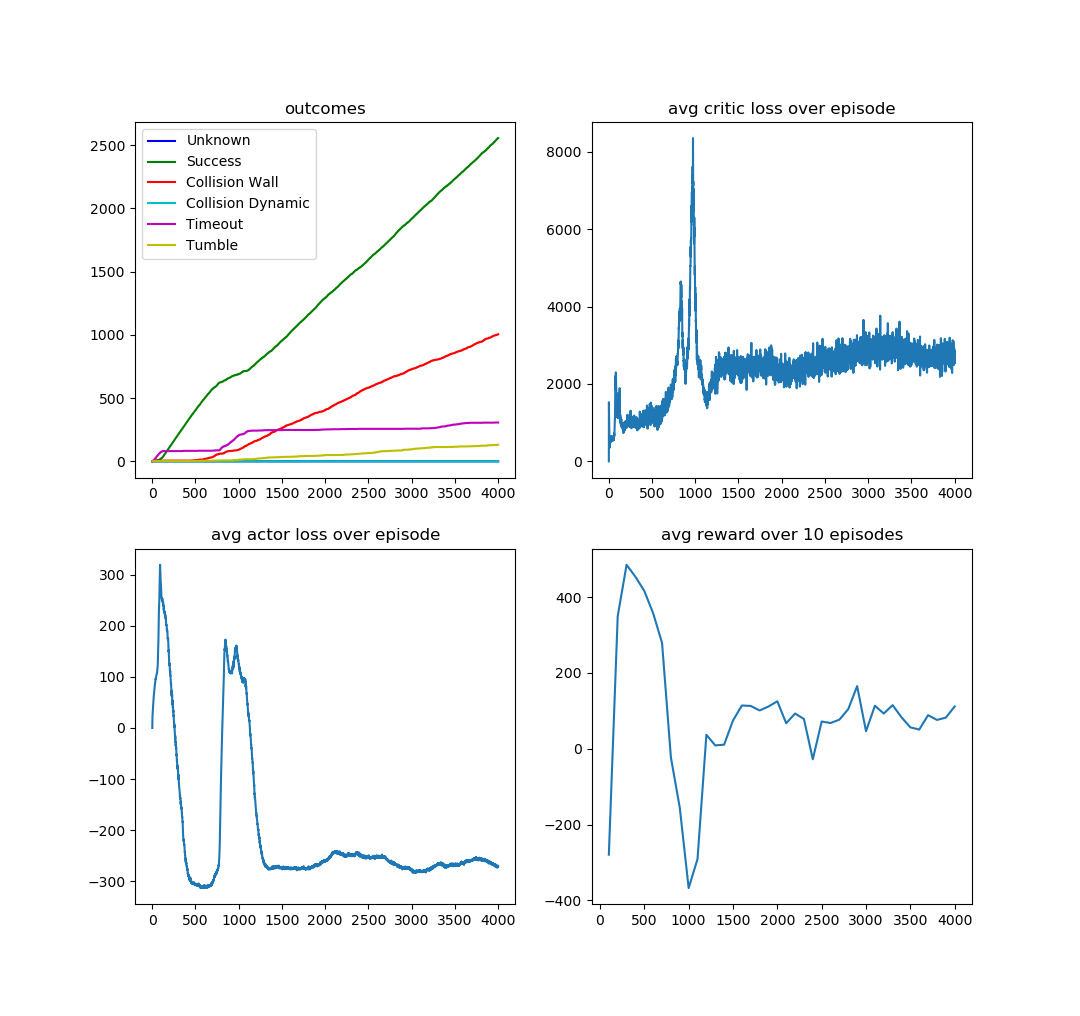
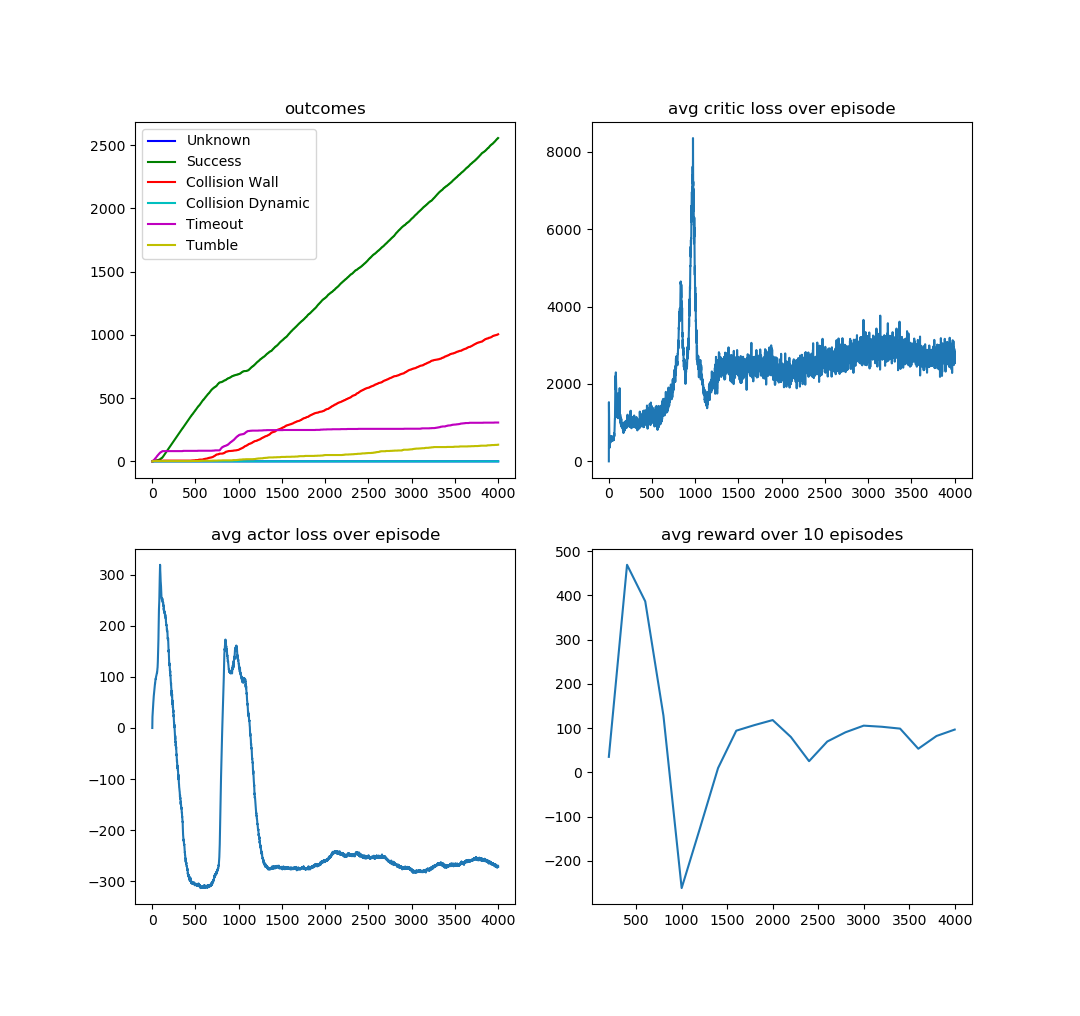
相关测试及绘图脚本

diff --git a/util/analize_reward.py b/util/analize_reward.py
@@ -1,0 +1,90 @@
+import matplotlib.pyplot as plt
+import numpy as np
+import math
+import os
+import glob
+import sys
+import pandas as pd
+import socket
+from datetime import datetime
+import argparse
+
+TOP_EPISODES = 4
+PLOT_INTERVAL = 100
+# Episode outcome enumeration
+UNKNOWN = 0
+SUCCESS = 1
+COLLISION_WALL = 2
+COLLISION_OBSTACLE = 3
+TIMEOUT = 4
+TUMBLE = 5
+RESULTS_NUM = 6
+
+
+def main(args):
+
+    plt.figure(figsize=(10,10))
+    avg_episode_smooth = []
+    avg_smooth = []
+    base_path = os.getenv('DRLNAV_BASE_PATH') + f"/src/{args.agent_name}/model/{args.file_path}/"
+    logfile = glob.glob(base_path + '/*_speed_*.txt')
+    logfile.sort()
+    # logfile = glob.glob(base_path + '/_test_*.txt')
+    # if len(logfile) != 1:
+    #     print(f"ERROR: found less or more than 1 logfile for: {base_path}")
+    for i in range(len(logfile)):
+
+        df = pd.read_csv(logfile[i])
+        robot_pose_x_column = df[' robot_pose_x']
+        robot_pose_y_column = df[' robot_pose_y']
+        goal_pose_x_column = df[' goal_pose_x']
+        goal_pose_y_column = df[' goal_pose_y']
+        # steps_column   = df['step']
+        robot_pose_x = robot_pose_x_column.tolist()
+        robot_pose_y = robot_pose_y_column.tolist()
+        goal_pose_x = goal_pose_x_column.tolist()
+        goal_pose_y = goal_pose_y_column.tolist()
+        # steps = steps_column.tolist()
+
+        length = len(robot_pose_x_column)
+        for j in range(1,length-1):
+            smooth = (math.pow(robot_pose_x[j-1]+robot_pose_x[j+1]-2*robot_pose_x[j],2) + math.pow(robot_pose_y[j-1]+robot_pose_y[j+1]-2*robot_pose_y[j],2))
+            avg_episode_smooth.append(smooth)
+        avg_episode_smooth_value = np.mean(avg_episode_smooth)
+        avg_smooth.append(avg_episode_smooth_value)
+    avg_smooth_l1 = 10000*np.mean(avg_smooth[:40])
+    avg_smooth_l2 = 10000*np.mean(avg_smooth[40:80])
+    avg_smooth_l3 = 10000*np.mean(avg_smooth[80:])
+
+    x=[1,2,3]  
+    y=[avg_smooth_l1,avg_smooth_l2,avg_smooth_l3]  
+    color=['blue','green','yellow','orchid','deepskyblue']
+    x_label=['task_level_1','task_level_2','task_level_3']
+    plt.xticks(x, x_label)
+    plt.bar(x, y,color=color)
+    plt.title("Smooth of trajectory")
+
+    # plt.plot(xaxis, average_rewards, label="avg_rewards")
+    # plt.plot(0.0, 0.0, "o", lw=3, c='black')
+    # plt.plot(robot_pose_x, robot_pose_y, label="trajectory", lw=1, c='black')
+    # plt.plot(goal_pose_x[0], goal_pose_y[0], "o",  label="goal", lw=3, c='red')
+
+    # plt.xlabel('Episode', fontsize=24, fontweight='bold')
+    # plt.ylabel('Avg.Rate', fontsize=24, fontweight='bold')
+    # plt.xticks(fontsize=20)
+    # plt.yticks(fontsize=20)
+    # plt.legend(fontsize=20)
+    # plt.xlim(-6,6)
+    plt.ylim(0,5)
+    plt.grid(True, linestyle='--')
+    plt.savefig(logfile[i][:-4] + "_trajectory_smooth.png", format="png", bbox_inches="tight")
+    # plt.show()
+
+
+if __name__ == '__main__':
+    parser = argparse.ArgumentParser()
+    parser.add_argument("--agent_name",           default="cyberdog_drl", type=str)
+    parser.add_argument("--file_path",            default="dayday-pc/ddpg_888_stage_4", type=str)
+    args = parser.parse_args()
+    print(args)
+    main(args)

diff --git a/util/analize_smooth.py b/util/analize_smooth.py
@@ -1,0 +1,90 @@
+import matplotlib.pyplot as plt
+import numpy as np
+import math
+import os
+import glob
+import sys
+import pandas as pd
+import socket
+from datetime import datetime
+import argparse
+
+TOP_EPISODES = 4
+PLOT_INTERVAL = 100
+# Episode outcome enumeration
+UNKNOWN = 0
+SUCCESS = 1
+COLLISION_WALL = 2
+COLLISION_OBSTACLE = 3
+TIMEOUT = 4
+TUMBLE = 5
+RESULTS_NUM = 6
+
+
+def main(args):
+
+    plt.figure(figsize=(10,10))
+    avg_episode_smooth = []
+    avg_smooth = []
+    base_path = os.getenv('DRLNAV_BASE_PATH') + f"/src/{args.agent_name}/model/{args.file_path}/"
+    logfile = glob.glob(base_path + '/*_speed_*.txt')
+    logfile.sort()
+    # logfile = glob.glob(base_path + '/_test_*.txt')
+    # if len(logfile) != 1:
+    #     print(f"ERROR: found less or more than 1 logfile for: {base_path}")
+    for i in range(len(logfile)):
+
+        df = pd.read_csv(logfile[i])
+        robot_pose_x_column = df[' robot_pose_x']
+        robot_pose_y_column = df[' robot_pose_y']
+        goal_pose_x_column = df[' goal_pose_x']
+        goal_pose_y_column = df[' goal_pose_y']
+        # steps_column   = df['step']
+        robot_pose_x = robot_pose_x_column.tolist()
+        robot_pose_y = robot_pose_y_column.tolist()
+        goal_pose_x = goal_pose_x_column.tolist()
+        goal_pose_y = goal_pose_y_column.tolist()
+        # steps = steps_column.tolist()
+
+        length = len(robot_pose_x_column)
+        for j in range(1,length-1):
+            smooth = (math.pow(robot_pose_x[j-1]+robot_pose_x[j+1]-2*robot_pose_x[j],2) + math.pow(robot_pose_y[j-1]+robot_pose_y[j+1]-2*robot_pose_y[j],2))
+            avg_episode_smooth.append(smooth)
+        avg_episode_smooth_value = np.mean(avg_episode_smooth)
+        avg_smooth.append(avg_episode_smooth_value)
+    avg_smooth_l1 = 10000*np.mean(avg_smooth[:40])
+    avg_smooth_l2 = 10000*np.mean(avg_smooth[40:80])
+    avg_smooth_l3 = 10000*np.mean(avg_smooth[80:])
+
+    x=[1,2,3]  
+    y=[avg_smooth_l1,avg_smooth_l2,avg_smooth_l3]  
+    color=['blue','green','yellow','orchid','deepskyblue']
+    x_label=['task_level_1','task_level_2','task_level_3']
+    plt.xticks(x, x_label)
+    plt.bar(x, y,color=color)
+    plt.title("Smooth of trajectory")
+
+    # plt.plot(xaxis, average_rewards, label="avg_rewards")
+    # plt.plot(0.0, 0.0, "o", lw=3, c='black')
+    # plt.plot(robot_pose_x, robot_pose_y, label="trajectory", lw=1, c='black')
+    # plt.plot(goal_pose_x[0], goal_pose_y[0], "o",  label="goal", lw=3, c='red')
+
+    # plt.xlabel('Episode', fontsize=24, fontweight='bold')
+    # plt.ylabel('Avg.Rate', fontsize=24, fontweight='bold')
+    # plt.xticks(fontsize=20)
+    # plt.yticks(fontsize=20)
+    # plt.legend(fontsize=20)
+    # plt.xlim(-6,6)
+    plt.ylim(0,5)
+    plt.grid(True, linestyle='--')
+    plt.savefig(logfile[i][:-4] + "_trajectory_smooth.png", format="png", bbox_inches="tight")
+    # plt.show()
+
+
+if __name__ == '__main__':
+    parser = argparse.ArgumentParser()
+    parser.add_argument("--agent_name",           default="cyberdog_drl", type=str)
+    parser.add_argument("--file_path",            default="dayday-pc/ddpg_888_stage_4", type=str)
+    args = parser.parse_args()
+    print(args)
+    main(args)

diff --git a/src/turtlebot3_drl/turtlebot3_drl/drl_agent/drl_agent.py b/src/turtlebot3_drl/turtlebot3_drl/drl_agent/drl_agent.py
@@ -132,6 +132,8 @@ class DrlAgent(Node):
             action_past = [0.0, 0.0, 0.0]
             state = util.init_episode(self)
             action_list = []
+            robot_pose_list = []
+            goal_pose_list = []
 
             if ENABLE_STACKING:
                 frame_buffer = [0.0] * (self.model.state_size * self.model.stack_depth * self.model.frame_skip)
@@ -171,12 +173,14 @@ class DrlAgent(Node):
                         action_current = self.model.possible_actions[action]
 
                 # Take a step
-                next_state, reward, episode_done, outcome, distance_traveled = util.step(self, action_current, action_past)
+                next_state, reward, episode_done, outcome, distance_traveled, robot_pose, goal_pose = util.step(self, action_current, action_past)
                 action_past = copy.deepcopy(action_current)
                 reward_sum += reward
                 action_log = copy.deepcopy(action_current)
                 action_log[0] = action_log[0] * SPEED_LINEAR_MAX
                 action_list.append(action_log)
+                robot_pose_list.append(robot_pose)
+                goal_pose_list.append(goal_pose)
 
                 if ENABLE_STACKING:
                     frame_buffer = frame_buffer[self.model.state_size:] + list(next_state)      # Update big buffer with single step
@@ -208,10 +212,10 @@ class DrlAgent(Node):
             self.total_steps += step
             duration = time.perf_counter() - episode_start
 
-            self.finish_episode(step, duration, outcome, distance_traveled, reward_sum, loss_critic, loss_actor, action_list)
+            self.finish_episode(step, duration, outcome, distance_traveled, reward_sum, loss_critic, loss_actor, action_list, robot_pose_list, goal_pose_list)
             episode += 1
 
-    def finish_episode(self, step, eps_duration, outcome, dist_traveled, reward_sum, loss_critic, lost_actor, action_list):
+    def finish_episode(self, step, eps_duration, outcome, dist_traveled, reward_sum, loss_critic, lost_actor, action_list, robot_pose_list, goal_pose_list):
             if self.total_steps < self.observe_steps:
                 print(f"Observe phase: {self.total_steps}/{self.observe_steps} steps")
                 return
@@ -221,7 +225,7 @@ class DrlAgent(Node):
             print(f"steps: {step:<6}steps_total: {self.total_steps:<7}time: {eps_duration:<6.2f}dist_traveled: {dist_traveled:<6.2f}")
 
             if (not self.training):
-                self.logger.update_test_results(step, outcome, dist_traveled, eps_duration, 0, reward_sum, action_list)
+                self.logger.update_test_results(step, outcome, dist_traveled, eps_duration, 0, reward_sum, action_list, robot_pose_list, goal_pose_list)
                 return
 
             self.graph.update_data(step, self.total_steps, outcome, reward_sum, loss_critic, lost_actor)

diff --git a/util/plot_trajectory.py b/util/plot_trajectory.py
@@ -1,0 +1,69 @@
+import matplotlib.pyplot as plt
+import numpy
+import os
+import glob
+import sys
+import pandas as pd
+import socket
+from datetime import datetime
+import argparse
+
+TOP_EPISODES = 4
+PLOT_INTERVAL = 100
+# Episode outcome enumeration
+UNKNOWN = 0
+SUCCESS = 1
+COLLISION_WALL = 2
+COLLISION_OBSTACLE = 3
+TIMEOUT = 4
+TUMBLE = 5
+RESULTS_NUM = 6
+
+
+def main(args):
+
+
+    base_path = os.getenv('DRLNAV_BASE_PATH') + f"/src/{args.agent_name}/model/{args.file_path}/"
+    logfile = glob.glob(base_path + '/*_speed_*.txt')
+    # logfile = glob.glob(base_path + '/_test_*.txt')
+    # if len(logfile) != 1:
+    #     print(f"ERROR: found less or more than 1 logfile for: {base_path}")
+    for i in range(len(logfile)):
+        plt.figure(figsize=(10,10))
+        df = pd.read_csv(logfile[i])
+        robot_pose_x_column = df[' robot_pose_x']
+        robot_pose_y_column = df[' robot_pose_y']
+        goal_pose_x_column = df[' goal_pose_x']
+        goal_pose_y_column = df[' goal_pose_y']
+        # steps_column   = df['step']
+        robot_pose_x = robot_pose_x_column.tolist()
+        robot_pose_y = robot_pose_y_column.tolist()
+        goal_pose_x = goal_pose_x_column.tolist()
+        goal_pose_y = goal_pose_y_column.tolist()
+        # steps = steps_column.tolist()
+
+
+        # plt.plot(xaxis, average_rewards, label="avg_rewards")
+        plt.plot(0.0, 0.0, "o", lw=3, c='black')
+        plt.plot(robot_pose_x, robot_pose_y, label="trajectory", lw=1, c='black')
+        plt.plot(goal_pose_x[0], goal_pose_y[0], "o",  label="goal", lw=3, c='red')
+
+        # plt.xlabel('Episode', fontsize=24, fontweight='bold')
+        # plt.ylabel('Avg.Rate', fontsize=24, fontweight='bold')
+        # plt.xticks(fontsize=20)
+        # plt.yticks(fontsize=20)
+        plt.legend(fontsize=20)
+        plt.xlim(-6,6)
+        plt.ylim(-6,6)
+        plt.grid(True, linestyle='-')
+        plt.savefig(logfile[i][:-4] + "_trajectory.png", format="png", bbox_inches="tight")
+        # plt.show()
+
+
+if __name__ == '__main__':
+    parser = argparse.ArgumentParser()
+    parser.add_argument("--agent_name",           default="cyberdog_drl", type=str)
+    parser.add_argument("--file_path",            default="dayday-pc/ddpg_888_stage_4", type=str)
+    args = parser.parse_args()
+    print(args)
+    main(args)

diff --git a/src/turtlebot3_drl/turtlebot3_drl/common/logger.py b/src/turtlebot3_drl/turtlebot3_drl/common/logger.py
@@ -32,7 +32,7 @@ class Logger():
         else:
             self.file_log = self.init_testing_log(datetime, session_dir, stage, load_episode)
 
-    def update_test_results(self, step, outcome, distance_traveled, episode_duration, swerving_sum, reward_sum, action_list):
+    def update_test_results(self, step, outcome, distance_traveled, episode_duration, swerving_sum, reward_sum, action_list, robot_pose_list, goal_pose_list):
         self.test_entry += 1
         self.test_outcome[outcome] += 1
         if outcome == SUCCESS:
@@ -65,10 +65,10 @@ class Logger():
                       f"duration: {sum(self.test_duration)/success_count:.3f}")
         # log speed
         datetime = time.strftime("%Y%m%d-%H%M%S")
-        speed_log = self.init_speed_log(datetime, self.session_dir, self.stage, self.load_episode)
+        speed_and_pose_log = self.init_speed_log(datetime, self.session_dir, self.stage, self.load_episode)
         length = len(action_list)
         for i in range(length):
-            speed_log.write(f"{i+1}, {action_list[i][0]}, {action_list[i][1]}, {action_list[i][2]}\n")
+            speed_and_pose_log.write(f"{i+1}, {action_list[i][0]}, {action_list[i][1]}, {action_list[i][2]}, {robot_pose_list[i][0]}, {robot_pose_list[i][1]}, {goal_pose_list[i][0]}, {goal_pose_list[i][1]}\n")
 
 
     def init_training_log(self, datetime, path, stage, model_config):
@@ -85,7 +85,7 @@ class Logger():
 
     def init_speed_log(self, datetime, path, stage, load_episode):
         file_log = open(os.path.join(path, "_test_stage" + stage + "_eps" + str(load_episode) + "_speed_" + datetime + '.txt'), 'w+')
-        file_log.write(f"step, speed_x, speed_y, speed_yaw\n")
+        file_log.write(f"step, speed_x, speed_y, speed_yaw, robot_pose_x, robot_pose_y, goal_pose_x, goal_pose_y\n")
         return file_log
     
     def init_comparison_file(self, datetime, path, stage, hyperparameters, algorithm, session, episode):

diff --git a/src/turtlebot3_drl/turtlebot3_drl/common/settings.py b/src/turtlebot3_drl/turtlebot3_drl/common/settings.py
@@ -8,12 +8,12 @@ ENABLE_VISUAL            = False    # Meant to be used only during evaluation/te
 ENABLE_TRUE_RANDOM_GOALS = True    # If false, goals are selected semi-randomly from a list of known valid goal positions
 ENABLE_DYNAMIC_GOALS     = False    # If true, goal difficulty (distance) is adapted according to current success rate
 HUMAN_PLAY               = False    # If true, the agent is disabled and the robot can be controlled manually via keyboard 
-MODEL_STORE_INTERVAL     = 100      # Store the model weights every N episodes
+MODEL_STORE_INTERVAL     = 200      # Store the model weights every N episodes
 GRAPH_DRAW_INTERVAL      = 1000       # Draw the graph every N episodes (drawing too often will slow down training)
-GRAPH_AVERAGE_REWARD     = 100       # Average the reward graph over every N episodes
+GRAPH_AVERAGE_REWARD     = 200       # Average the reward graph over every N episodes
 FINTUNE_TIMES            = 0
 # PROJECT_PATH             = "/home/pdf/workspace/RL/turtlebot3_drlnav/src/turtlebot3_drl/turtlebot3_drl"
-PROJECT_PATH             = "/root/project/turtlebot3_drlnav/src/turtlebot3_drl/turtlebot3_drl"
+PROJECT_PATH             = "/home/dayday/project/turtlebot3_drlnav/src/turtlebot3_drl/turtlebot3_drl"
 
 # ===================================================================== #
 #                         ENVIRONMENT SETTINGS                          #

diff --git a/src/turtlebot3_drl/turtlebot3_drl/drl_environment/drl_environment.py b/src/turtlebot3_drl/turtlebot3_drl/drl_environment/drl_environment.py
@@ -289,10 +289,12 @@ class DRLEnvironment(Node):
         response.reward = 0.0
         response.done = False
         response.distance_traveled = 0.0
+        response.robot_point = [0.0, 0.0]
+        response.goal_point = [0.0, 0.0]
         rw.reward_initalize(self.initial_distance_to_goal)
         return response
 
-    # TODO: 修改速度相关
+    # TODO: 交互函数 step
     def step_comm_callback(self, request, response):
         if len(request.action) == 0:
             return self.initalize_episode(response)
@@ -332,6 +334,8 @@ class DRLEnvironment(Node):
         response.done = self.done
         response.success = self.succeed
         response.distance_traveled = 0.0
+        response.robot_point = [self.robot_x, self.robot_y]
+        response.goal_point = [self.goal_x, self.goal_y]
         if self.done:
             response.distance_traveled = self.total_distance
             # Reset variables

diff --git a/src/turtlebot3_drl/turtlebot3_drl/common/utilities.py b/src/turtlebot3_drl/turtlebot3_drl/common/utilities.py
@@ -37,14 +37,14 @@ def step(agent_self, action, previous_action):
         if future.done():
             if future.result() is not None:
                 res = future.result()
-                return res.state, res.reward, res.done, res.success, res.distance_traveled
+                return res.state, res.reward, res.done, res.success, res.distance_traveled, res.robot_point, res.goal_point
             else:
                 agent_self.get_logger().error(
                     'Exception while calling service: {0}'.format(future.exception()))
                 print("ERROR getting step service response!")
 
 def init_episode(agent_self):
-    state, _, _, _, _ = step(agent_self, [], [0.0, 0.0])
+    state, _, _, _, _, _, _ = step(agent_self, [], [0.0, 0.0])
     return state
 
 def get_goal_status(agent_self):
